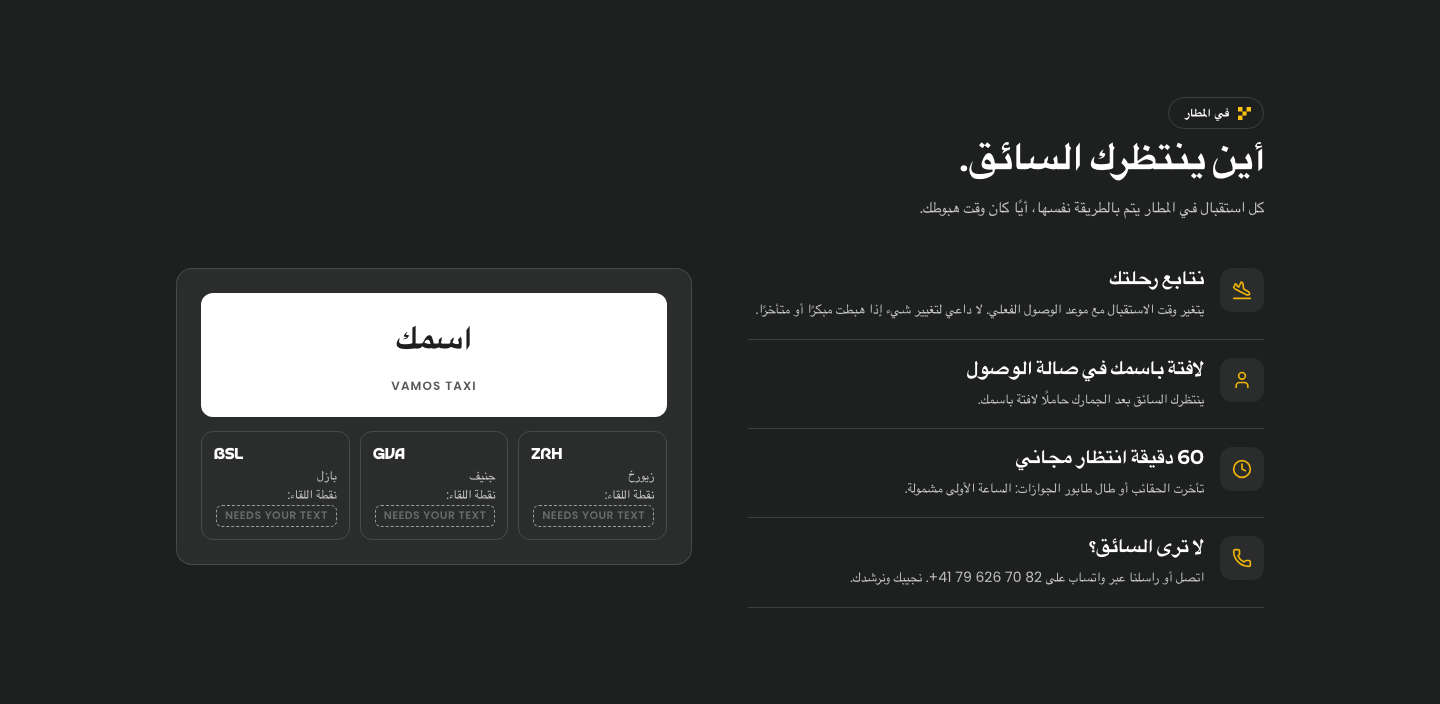
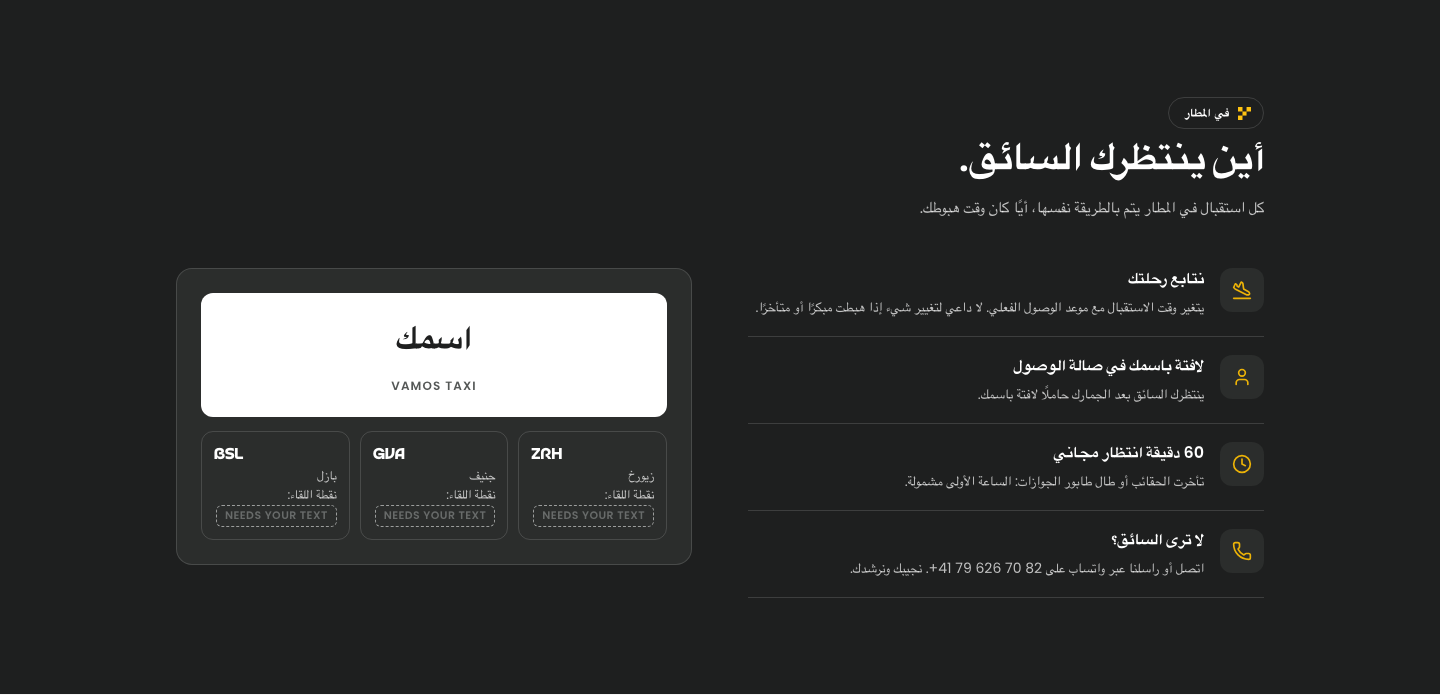
docs(planning): home audit round 2 — owner answers recorded; routes/reviews/FAQ options, FAQ line fixed, airport subtitles in Poppins

diff --git a/.planning/quick/261003-home-sections/sketch-more.js b/.planning/quick/261003-home-sections/sketch-more.js
@@ -1,0 +1,142 @@
+/* Round 2 directions (English only until the owner picks): routes-b/c/d, reviews-b/c/d, faq-a/b/c/d. Not product code. */
+(function () {
+  var s = new URLSearchParams(location.search).get('v') || '';
+  var SETS = ['routes-b', 'routes-c', 'routes-d', 'reviews-b', 'reviews-c', 'reviews-d', 'faq-a', 'faq-b', 'faq-c', 'faq-d'];
+  if (SETS.indexOf(s) < 0) return;
+  var css = document.createElement('style');
+  css.textContent = [
+    '[data-cols3]{display:grid;grid-template-columns:repeat(auto-fit,minmax(min(100%,300px),1fr));gap:20px}',
+    '[data-apcol]{display:flex;flex-direction:column;min-inline-size:0}',
+    '[data-apcol] img{display:block;inline-size:100%;aspect-ratio:16/9;object-fit:cover;border-radius:var(--vt-radius-lg)}',
+    '[data-apname]{display:flex;align-items:baseline;gap:10px;margin:16px 0 4px;font-family:var(--vt-font-display);font-size:var(--vt-heading-3);font-weight:var(--vt-weight-semibold)}',
+    '[data-apname] small{font-family:var(--vt-font-body);font-size:12px;letter-spacing:var(--vt-label-tracking);color:var(--vt-text-muted)}',
+    '[data-li]{display:flex;align-items:center;justify-content:space-between;gap:12px;min-block-size:52px;border-block-end:1px solid var(--vt-border-subtle);font-size:15px;font-weight:var(--vt-weight-medium)}',
+    '[data-li] [data-ico]{color:var(--vt-text-muted)}',
+    '[data-li-l]{display:inline-flex;align-items:center;gap:10px;flex-wrap:wrap}',
+    '[data-tabs2]{display:flex;flex-wrap:wrap;gap:8px;margin-block-end:24px}',
+    '[data-tab2]{display:inline-flex;align-items:center;gap:8px;min-block-size:44px;padding-inline:18px;border-radius:var(--vt-radius-pill);border:1px solid var(--vt-border-subtle);background:var(--vt-white);font-size:13px;font-weight:var(--vt-weight-semibold);letter-spacing:var(--vt-label-tracking);text-transform:uppercase}',
+    '[data-tab2][aria-selected="true"]{background:var(--vt-charcoal-900);border-color:var(--vt-charcoal-900);color:var(--vt-white)}',
+    '[data-split2]{display:grid;grid-template-columns:minmax(0,1fr) minmax(0,1fr);gap:clamp(24px,4vw,56px);align-items:start}',
+    '@media (max-width:900px){[data-split2]{grid-template-columns:1fr}}',
+    '[data-split2] > img{inline-size:100%;aspect-ratio:4/3;object-fit:cover;border-radius:var(--vt-radius-lg)}',
+    '[data-rail]{display:flex;gap:16px;overflow-x:auto;padding-block-end:8px;scroll-snap-type:x mandatory;overscroll-behavior-x:contain}',
+    '[data-tall]{position:relative;flex:0 0 clamp(240px,26vw,300px);aspect-ratio:3/4;border-radius:var(--vt-radius-lg);overflow:hidden;color:var(--vt-white);scroll-snap-align:start;isolation:isolate;display:flex;flex-direction:column;justify-content:flex-end;padding:20px;gap:8px}',
+    '[data-tall] img{position:absolute;inset:0;inline-size:100%;block-size:100%;object-fit:cover;z-index:-2}',
+    '[data-tall]::after{content:"";position:absolute;inset:0;z-index:-1;background:linear-gradient(to top,rgb(30 31 31/.92),rgb(30 31 31/0) 65%)}',
+    '[data-tall] b{font-family:var(--vt-font-display);font-size:22px;font-weight:var(--vt-weight-semibold);line-height:1.15}',
+    '[data-tall] span{font-size:13px;color:rgb(255 255 255/.8)}',
+    '[data-tall] [data-tag]{font-size:11px;color:var(--vt-yellow-500);background:var(--vt-charcoal-900)}',
+    '[data-railhead]{display:flex;align-items:flex-end;justify-content:space-between;gap:16px;flex-wrap:wrap}',
+    '[data-arrows]{display:flex;gap:8px}',
+    '[data-arr]{display:grid;place-items:center;inline-size:44px;block-size:44px;border-radius:50%;border:1px solid var(--vt-charcoal-900)}',
+    '[data-dark] [data-arr]{border-color:var(--vt-white)}',
+    '[data-big]{margin:0;font-family:var(--vt-font-display);font-size:clamp(24px,2.8vw,34px);font-weight:var(--vt-weight-medium);line-height:1.3;letter-spacing:-0.01em}',
+    '[data-plat]{display:flex;flex-direction:column;gap:0}',
+    '[data-platrow]{display:flex;align-items:center;justify-content:space-between;gap:16px;min-block-size:64px;border-block-end:1px solid var(--vt-border-inverse)}',
+    '[data-platrow] img{box-sizing:content-box;inline-size:auto;block-size:20px;padding:10px 14px;background:var(--vt-white);border-radius:var(--vt-radius-pill)}',
+    '[data-platrow] b{font-family:var(--vt-font-display);font-size:24px}',
+    '[data-platrow] small{display:block;font-size:12px;color:rgb(255 255 255/.6);text-align:end}',
+    '[data-chips2]{display:flex;flex-wrap:wrap;gap:12px;margin-block-end:28px}',
+    '[data-pchip]{display:inline-flex;align-items:center;gap:12px;min-block-size:56px;padding-inline:18px;border:1px solid var(--vt-border-subtle);border-radius:var(--vt-radius-pill);background:var(--vt-white)}',
+    '[data-pchip] img{block-size:20px}',
+    '[data-pchip] b{font-family:var(--vt-font-display);font-size:20px}',
+    '[data-pchip] small{font-size:12px;color:var(--vt-text-muted)}',
+    '[data-wall]{columns:3 280px;column-gap:20px}',
+    '[data-wall] > *{break-inside:avoid;margin-block-end:20px}',
+    '[data-src]{block-size:18px;align-self:flex-start}',
+    '[data-sample]{margin:0 0 20px;font-size:12px;color:var(--vt-text-muted)}',
+    '[data-dark] [data-sample]{color:rgb(255 255 255/.55)}',
+    '[data-scorebox]{flex:0 0 260px;display:flex;flex-direction:column;gap:10px;padding:24px;border-radius:var(--vt-radius-lg);background:var(--vt-charcoal-900);color:var(--vt-white);scroll-snap-align:start}',
+    '[data-scorebox] [data-score]{font-size:56px}',
+    '[data-scorebox] [data-stars]{color:var(--vt-yellow-500)}',
+    '[data-scorebox] p{margin:0;font-size:13px;color:rgb(255 255 255/.72)}',
+    '[data-mini]{flex:0 0 300px;scroll-snap-align:start}',
+    '[data-dots]{display:flex;gap:8px;align-items:center}',
+    '[data-dots] i{inline-size:8px;block-size:8px;border-radius:50%;background:rgb(255 255 255/.35)}',
+    '[data-dots] i:first-child{inline-size:24px;border-radius:4px;background:var(--vt-yellow-500)}',
+    /* FAQ */
+    '[data-qa]{border-block-end:1px solid var(--vt-border-subtle)}',
+    '[data-qa] [data-q]{border:0}',
+    '[data-qa] [data-a2]{margin:0;padding:0 52px 22px 0;max-inline-size:62ch;font-size:var(--vt-body-sm);line-height:var(--vt-body-leading);color:var(--vt-text-secondary)}',
+    '[dir="rtl"] [data-qa] [data-a2]{padding:0 0 22px 52px}',
+    '[data-qcard]{background:var(--vt-white);border:1px solid var(--vt-border-subtle);border-radius:var(--vt-radius-lg);padding:4px 20px;margin-block:8px}',
+    '[data-qcard] [data-q]{border:0}',
+    '[data-qcard] [data-a2]{padding-inline-end:52px}',
+    '[data-faq3]{display:grid;grid-template-columns:minmax(0,280px) minmax(0,1fr);gap:clamp(24px,5vw,72px)}',
+    '@media (max-width:900px){[data-faq3]{grid-template-columns:1fr}}',
+    '[data-faq3] > *{min-inline-size:0}',
+    '[data-cats]{display:flex;flex-direction:column;gap:6px}',
+    '@media (max-width:900px){[data-cats]{flex-direction:row;overflow-x:auto;overscroll-behavior-x:contain}}',
+    '[data-cat]{display:flex;align-items:center;justify-content:space-between;gap:12px;min-block-size:48px;padding-inline:16px;border-radius:12px;font-size:14px;font-weight:var(--vt-weight-semibold);white-space:nowrap}',
+    '[data-cat][aria-selected="true"]{background:var(--vt-charcoal-900);color:var(--vt-white)}',
+    '[data-cat] small{font-family:var(--vt-font-display);font-size:13px;color:var(--vt-text-muted)}',
+    '[data-cat][aria-selected="true"] small{color:var(--vt-yellow-500)}',
+    '[data-help]{display:flex;flex-direction:column;gap:12px;margin-block-start:24px;padding:20px;border-radius:var(--vt-radius-lg);background:var(--vt-charcoal-900);color:var(--vt-white)}',
+    '[data-help] p{margin:0;font-size:13px;color:rgb(255 255 255/.72)}',
+    '[data-help] b{font-family:var(--vt-font-display);font-size:18px}',
+    '[data-qgrid]{display:grid;grid-template-columns:repeat(auto-fit,minmax(min(100%,380px),1fr));gap:12px;align-items:start}',
+    '[data-qgrid] [data-qcard]{margin:0}',
+    '[data-helpband]{display:flex;flex-wrap:wrap;align-items:center;justify-content:space-between;gap:16px;margin-block-start:28px;padding:20px 24px;border-radius:var(--vt-radius-lg);background:var(--vt-white);border:1px solid var(--vt-border-subtle)}',
+    '[data-helpband] b{font-family:var(--vt-font-display);font-size:20px}',
+  ].join('\n');
+  document.head.appendChild(css);
+
+  var I = function (n, flip) { return '<span data-ico' + (flip ? ' data-flip' : '') + ' style="--m:url(../../../assets/icons/' + n + '.svg)" aria-hidden="true"></span>'; };
+  var P = '../../../assets/photography/';
+  var R = '../../../assets/reviews/';
+  var BIZ = 'https://vamostaxi.site/photos/classes/7f4a6dd2-245c-499d-9d11-a8d9d4fd34f9/458aece6-c409-4f3f-af58-93abb941854f.png';
+  var head = function (k, t, l) { return '<div data-head><p data-kicker>' + k + '</p><h2 data-title>' + t + '</h2>' + (l ? '<p data-lede>' + l + '</p>' : '') + '</div>'; };
+  var sec = function (inner, dark) { return '<section data-sec' + (dark ? ' data-dark' : '') + '><div data-wrap>' + inner + '</div></section>'; };
+  var tag = '<span data-tag>Fixed route</span>';
+  var row = function (to, fixed) { return '<a data-li href="#book"><span data-li-l>' + to + (fixed ? tag : '') + '</span>' + I('chevron-right', 1) + '</a>'; };
+  var stars = '<span data-stars>' + [1, 2, 3, 4, 5].map(function () { return I('star'); }).join('') + '</span>';
+  var SAMPLE = '<p data-sample>Sample text. The connected platforms fill these with real reviews, updated automatically.</p>';
+  var QUOTE = 'The review text appears here exactly as the traveller wrote it on the platform, two or three sentences long.';
+  var rcard = function (src, quote) { return '<article data-card>' + stars + '<p data-quote>“' + (quote || QUOTE) + '”</p><div data-who><b>First name L.</b><span>Zurich Airport → Zermatt</span></div><img data-src src="' + R + src + '.svg" alt="' + src + '"></article>'; };
+  var QS = [
+    ['Where do I meet my driver?', 'After customs, in the arrivals hall. Your driver holds a board with your name.'],
+    ['What if my flight is late?', 'We track your flight. The pickup time moves with the real arrival, at no extra cost.'],
+    ['How long does the driver wait?', 'Sixty minutes of airport waiting are included on every airport pickup.'],
+    ['What if I can’t find my driver?', 'Call or WhatsApp +41 79 626 70 82. We answer and guide you to your driver.'],
+    ['Can I book a pickup for someone else?', 'Yes. Enter the traveller’s name and phone when you book.'],
+  ];
+  var CATS = [['Booking and price', 6], ['At the airport', 5], ['Luggage and seats', 4], ['Changes and cancellation', 4]];
+  var html = '';
+
+  if (s === 'routes-b') {
+    var col = function (img, name, code, list) { return '<div data-apcol><img src="' + P + img + '" alt=""><p data-apname>' + name + ' <small class="vt-dir-keep">' + code + '</small></p>' + list.map(function (x) { return row(x[0], x[1]); }).join('') + '</div>'; };
+    html = sec(head('Where we drive', 'Pick your airport, then your destination.', 'Every route below opens the booking card with both ends filled in.') + '<div data-cols3>' +
+      col('dest-zrh.jpg', 'Zurich Airport', 'ZRH', [['Davos', 1], ['St. Moritz', 1], ['Zurich city'], ['Lucerne'], ['Interlaken'], ['Zermatt']]) +
+      col('dest-gva.jpg', 'Geneva Airport', 'GVA', [['Geneva city'], ['Lausanne'], ['Zermatt'], ['Bern']]) +
+      col('dest-bsl.jpg', 'Basel EuroAirport', 'BSL', [['Basel city'], ['Bern'], ['Lucerne'], ['Zurich city']]) + '</div>');
+  } else if (s === 'routes-c') {
+    html = sec(head('Where we drive', 'Choose an airport. See where we take you.') + '<div data-tabs2><span data-tab2 aria-selected="true">' + I('plane-landing') + 'Zurich ZRH</span><span data-tab2>' + I('plane-landing') + 'Geneva GVA</span><span data-tab2>' + I('plane-landing') + 'Basel BSL</span></div>' +
+      '<div data-split2><img src="' + P + 'dest-zrh.jpg" alt=""><div>' + [['Davos', 1], ['St. Moritz', 1], ['Zurich city'], ['Lucerne'], ['Interlaken'], ['Zermatt'], ['Bern']].map(function (x) { return row('Zurich Airport → ' + x[0], x[1]); }).join('') + '<p data-p style="margin-top:16px">Not on the list? Type any address in the booking card.</p></div></div>');
+  } else if (s === 'routes-d') {
+    var tall = function (img, a, b, fixed) { return '<a data-tall href="#book"><img src="' + img + '" alt="">' + (fixed ? tag : '') + '<span>' + a + '</span><b>' + b + '</b></a>'; };
+    html = sec('<div data-railhead>' + head('Popular routes', 'Where travellers go from the airport.') + '<div data-arrows style="margin-block-end:48px"><span data-arr>' + I('chevron-left', 1) + '</span><span data-arr>' + I('chevron-right', 1) + '</span></div></div><div data-rail>' +
+      tall(P + 'why-alpine-route.jpg', 'Zurich Airport →', 'Davos', 1) + tall(BIZ, 'Zurich Airport →', 'St. Moritz', 1) + tall(P + 'svc-city.jpg', 'Zurich Airport →', 'Zurich city') + tall(P + 'fleet-van-street.jpg', 'Zurich Airport →', 'Lucerne') + tall(P + 'dest-gva.jpg', 'Geneva Airport →', 'Lausanne') + tall(P + 'dest-bsl.jpg', 'Basel EuroAirport →', 'Bern') + '</div>');
+  } else if (s === 'reviews-b') {
+    var plat = function (src, score, n) { return '<div data-platrow><img src="' + R + src + '" alt=""><span><b class="vt-dir-keep">' + score + '</b><small>' + n + ' reviews</small></span></div>'; };
+    html = sec(head('Reviews', 'What travellers say.') + SAMPLE + '<div data-meet><div style="display:flex;flex-direction:column;gap:24px">' + '<span data-stars style="color:var(--vt-yellow-500);--sz:22px">' + [1, 2, 3, 4, 5].map(function () { return I('star'); }).join('') + '</span><p data-big>“' + QUOTE + '”</p><div data-who style="color:rgb(255 255 255/.7)"><b style="color:#fff">First name L.</b><span>Zurich Airport → Zermatt · Google</span></div><div style="display:flex;align-items:center;gap:20px"><span data-arrows><span data-arr>' + I('chevron-left', 1) + '</span><span data-arr>' + I('chevron-right', 1) + '</span></span><span data-dots><i></i><i></i><i></i><i></i></span></div></div>' +
+      '<div data-plat>' + plat('google.svg', '0.0', '00') + plat('trustpilot.svg', '0.0', '00') + plat('tripadvisor.svg', '0.0', '00') + '</div></div>', true);
+  } else if (s === 'reviews-c') {
+    var pchip = function (src, score, n) { return '<span data-pchip><img src="' + R + src + '" alt=""><b class="vt-dir-keep">' + score + '</b>' + I('star') + '<small>' + n + ' reviews</small></span>'; };
+    html = sec(head('Reviews', 'What travellers say.') + '<div data-chips2>' + pchip('google.svg', '0.0', '00') + pchip('trustpilot.svg', '0.0', '00') + pchip('tripadvisor.svg', '0.0', '00') + '</div>' + SAMPLE + '<div data-wall>' +
+      rcard('google', 'A short review fits in one or two lines.') + rcard('trustpilot') + rcard('tripadvisor', 'A longer review keeps its full text in this layout, so the wall grows unevenly like a real set of reviews. Nothing is cut, the card simply gets taller.') + rcard('google', 'Short and clear.') + rcard('tripadvisor') + rcard('trustpilot', 'Medium length text, about two lines, from the traveller.') + '</div>');
+  } else if (s === 'reviews-d') {
+    html = sec(head('Reviews', 'What travellers say.') + SAMPLE + '<div data-rail><div data-scorebox><span data-score class="vt-dir-keep">0.0</span>' + '<span data-stars>' + [1, 2, 3, 4, 5].map(function () { return I('star'); }).join('') + '</span><p>Average of 00 reviews on Google, Trustpilot and Tripadvisor.</p><span data-link style="margin-top:auto">Read all' + I('arrow-right', 1) + '</span></div>' +
+      ['google', 'trustpilot', 'tripadvisor', 'google'].map(function (x) { return '<div data-mini>' + rcard(x) + '</div>'; }).join('') + '</div>');
+  } else if (s === 'faq-a') {
+    html = sec('<div data-faq><div data-head style="margin:0"><p data-kicker>Answers</p><h2 data-title>Frequently asked questions</h2></div><div>' + QS.map(function (x, i) { return '<div data-qa><div data-q' + (i === 0 ? ' data-open' : '') + '><span>' + x[0] + '</span><span data-pm>' + I(i === 0 ? 'x' : 'plus') + '</span></div>' + (i === 0 ? '<p data-a2>' + x[1] + '</p>' : '') + '</div>'; }).join('') + '</div></div>');
+  } else if (s === 'faq-b') {
+    html = sec('<div data-faq><div data-head style="margin:0"><p data-kicker>Answers</p><h2 data-title>Frequently asked questions</h2></div><div>' + QS.map(function (x, i) { return i === 0 ? '<div data-qcard><div data-q data-open><span>' + x[0] + '</span><span data-pm>' + I('x') + '</span></div><p data-a2 style="margin:0;padding-block-end:20px;font-size:var(--vt-body-sm);line-height:var(--vt-body-leading);color:var(--vt-text-secondary)">' + x[1] + '</p></div>' : '<div data-qa style="padding-inline:20px"><div data-q><span>' + x[0] + '</span><span data-pm>' + I('plus') + '</span></div></div>'; }).join('') + '</div></div>');
+  } else if (s === 'faq-c') {
+    html = sec(head('Answers', 'Frequently asked questions') + '<div data-faq3><div><div data-cats>' + CATS.map(function (c, i) { return '<span data-cat aria-selected="' + (i === 1) + '">' + c[0] + '<small class="vt-dir-keep">' + c[1] + '</small></span>'; }).join('') + '</div><div data-help><b>Still a question?</b><p>We answer every day by phone, WhatsApp or email.</p><span data-link style="color:var(--vt-yellow-500)">' + I('message-circle') + 'WhatsApp us</span></div></div><div>' + QS.map(function (x, i) { return '<div data-qa><div data-q' + (i === 0 ? ' data-open' : '') + '><span>' + x[0] + '</span><span data-pm>' + I(i === 0 ? 'x' : 'plus') + '</span></div>' + (i === 0 ? '<p data-a2>' + x[1] + '</p>' : '') + '</div>'; }).join('') + '</div></div>');
+    html = html.replace('We answer every day by phone', 'We answer by phone');
+  } else if (s === 'faq-d') {
+    html = sec(head('Answers', 'Frequently asked questions') + '<div data-tabs2>' + CATS.map(function (c, i) { return '<span data-tab2 aria-selected="' + (i === 1) + '">' + c[0] + '</span>'; }).join('') + '</div><div data-qgrid>' + QS.concat([['Is the price I see the final price?', '']]).map(function (x, i) { return '<div data-qcard><div data-q' + (i === 0 ? ' data-open' : '') + '><span>' + x[0] + '</span><span data-pm>' + I(i === 0 ? 'x' : 'plus') + '</span></div>' + (i === 0 ? '<p data-a2 style="margin:0;padding-block-end:20px;font-size:var(--vt-body-sm);line-height:var(--vt-body-leading);color:var(--vt-text-secondary)">' + x[1] + '</p>' : '') + '</div>'; }).join('') + '</div>' +
+      '<div data-helpband><span style="display:flex;flex-direction:column;gap:4px"><b>Still a question?</b><span data-p>Call, WhatsApp or email us.</span></span><span style="display:flex;gap:12px;flex-wrap:wrap"><a data-btn href="/contact">Contact us' + I('arrow-right', 1) + '</a><a data-btn="ghost" href="#">' + I('message-circle') + 'WhatsApp</a></span></div>');
+  }
+  document.getElementById('root').innerHTML = html;
+})();

diff --git a/.planning/quick/261003-home-sections/sketch-home.js b/.planning/quick/261003-home-sections/sketch-home.js
@@ -59,7 +59,7 @@
     if (lang === 'ar') html = html.replace(/ → /g, ' ← ');
   } else if (s === 'meet') {
     var m = T.meet;
-    html = sec(head(m) + '<div data-meet><ol data-steps>' + m.steps.map(function (x) { return '<li><span data-tile>' + I(x[0]) + '</span><div style="display:flex;flex-direction:column;gap:6px"><h3 data-h3>' + x[1] + '</h3><p data-p>' + x[2] + '</p></div></li>'; }).join('') + '</ol><div data-board><div data-sign>' + m.sign + '<small>' + m.signSub + '</small></div><div data-airports>' + m.ap.map(function (a) { return '<div data-ap><b class="vt-dir-keep">' + a[0] + '</b>' + a[1] + '<br>' + m.points + ':' + note() + '</div>'; }).join('') + '</div></div></div>', true);
+    html = sec(head(m) + '<div data-meet><ol data-steps>' + m.steps.map(function (x) { return '<li><span data-tile>' + I(x[0]) + '</span><div style="display:flex;flex-direction:column;gap:6px"><h3 data-h3b>' + x[1] + '</h3><p data-p>' + x[2] + '</p></div></li>'; }).join('') + '</ol><div data-board><div data-sign>' + m.sign + '<small>' + m.signSub + '</small></div><div data-airports>' + m.ap.map(function (a) { return '<div data-ap><b class="vt-dir-keep">' + a[0] + '</b>' + a[1] + '<br>' + m.points + ':' + note() + '</div>'; }).join('') + '</div></div></div>', true);
   } else if (s === 'services') {
     var v = T.services;
     html = sec(head(v) + '<div data-grid style="--min:240px">' + v.items.map(function (x) { var src = x[0].indexOf('http') === 0 ? x[0] : P + x[0]; return '<a data-svc href="#book"><img src="' + src + '" alt=""><div data-svc-body><h3 data-h3>' + x[1] + '</h3><p data-p>' + x[2] + '</p><span data-link>' + v.cta + I('arrow-right', 1) + '</span></div></a>'; }).join('') + '</div>');

diff --git a/.planning/quick/261003-home-sections/sketch-home.html b/.planning/quick/261003-home-sections/sketch-home.html
@@ -27,6 +27,7 @@ a{color:inherit;text-decoration:none;border:0}
 [data-lede]{margin:0;max-inline-size:56ch;font-size:var(--vt-body-md);line-height:var(--vt-body-leading);color:var(--vt-text-secondary);text-wrap:pretty}
 [data-dark] [data-lede]{color:rgb(255 255 255/.72)}
 [data-h3]{margin:0;font-family:var(--vt-font-display);font-size:var(--vt-heading-3);font-weight:var(--vt-weight-semibold);letter-spacing:var(--vt-heading-tracking);line-height:1.2}
+[data-h3b]{margin:0;font-family:var(--vt-font-body);font-size:16px;font-weight:var(--vt-weight-semibold);line-height:1.35}
 [data-p]{margin:0;font-size:var(--vt-body-sm);line-height:var(--vt-body-leading);color:var(--vt-text-secondary);text-wrap:pretty}
 [data-dark] [data-p]{color:rgb(255 255 255/.72)}
 [data-card]{display:flex;flex-direction:column;gap:12px;min-inline-size:0;padding:20px;background:var(--vt-bg-surface);border:1px solid var(--vt-border-subtle);border-radius:var(--vt-radius-lg)}
@@ -123,5 +124,6 @@ a{color:inherit;text-decoration:none;border:0}
 <body>
 <main id="root"></main>
 <script src="sketch-home.js"></script>
+<script src="sketch-more.js"></script>
 </body>
 </html>

diff --git a/.planning/quick/261003-home-sections/DECISIONS.md b/.planning/quick/261003-home-sections/DECISIONS.md
@@ -1,0 +1,16 @@
+# Owner answers on the home audit — 2026-10-03
+
+Verbatim intent from the owner's ten comments, in his order.
+
+1. Hero: do not redesign the booking bar. Reviews: the owner will connect the review platforms
+   himself so they update automatically. No hero change in this job.
+2. Vehicle classes (new): **add it.** Layout A or B still to choose.
+3. Where we drive: redesign again, **more suggestions wanted.**
+4. At the airport (new): liked. The small titles under the big title use the other font
+   (Poppins), not the big display font.
+5. Services: **redo, approved** (Airport, City to city, Mountain and ski, Business travel).
+6. Reviews: **more suggestions wanted.** Data will come from the connected platforms.
+7. Why book with us (new): **add it.**
+8. Business travel (new): **add it.**
+9. FAQ: no line between the question and its answer when it opens; fix it and **give more suggestions.**
+10. Closing call to action (new): **add it.**
